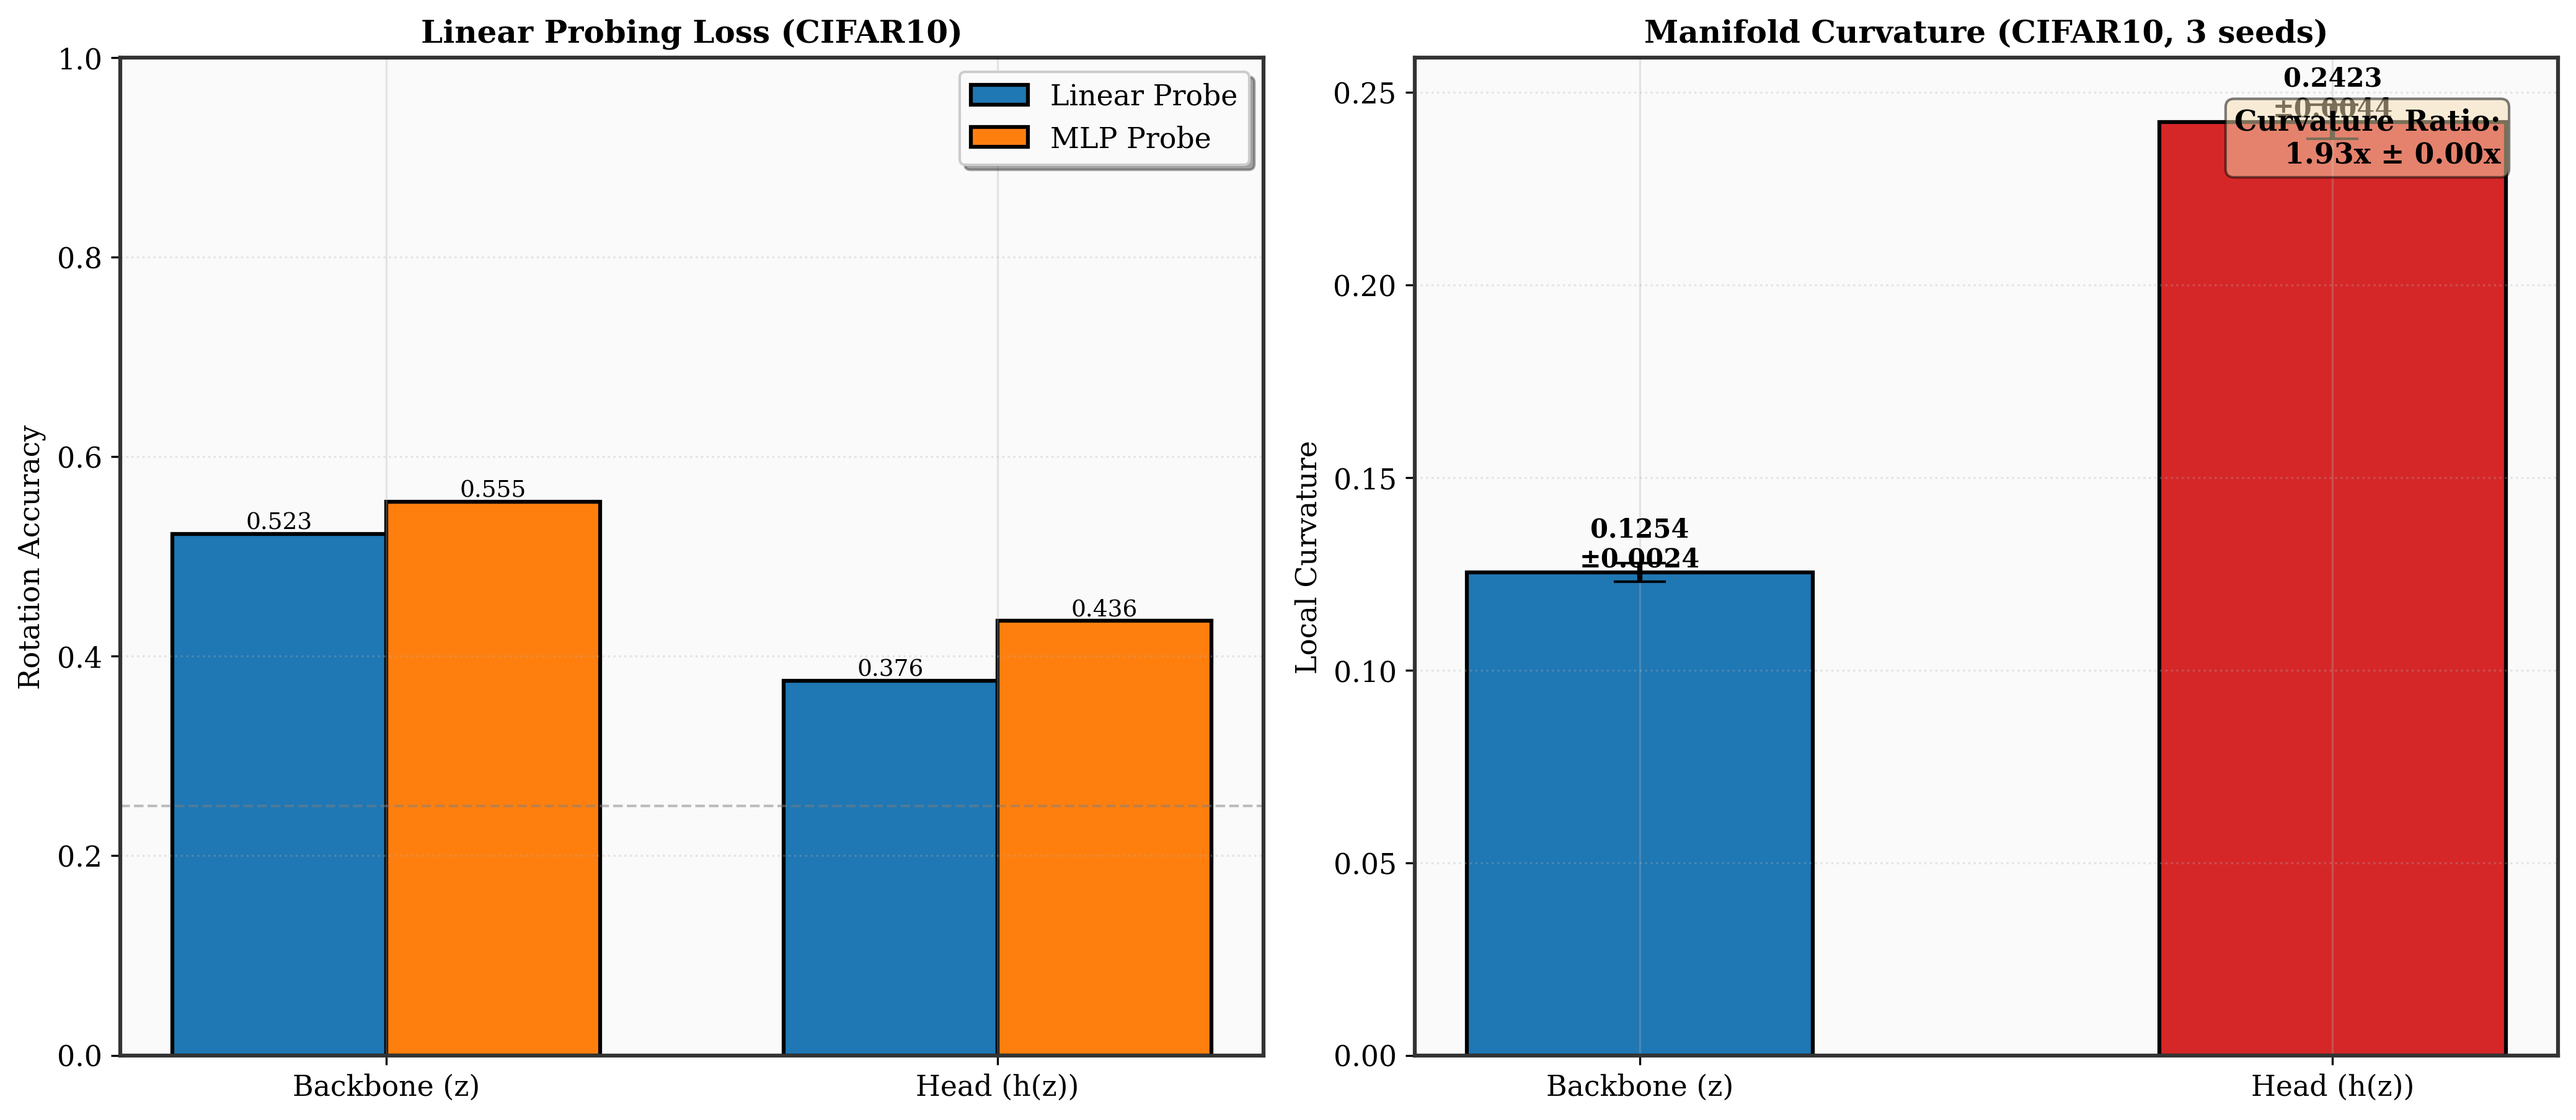
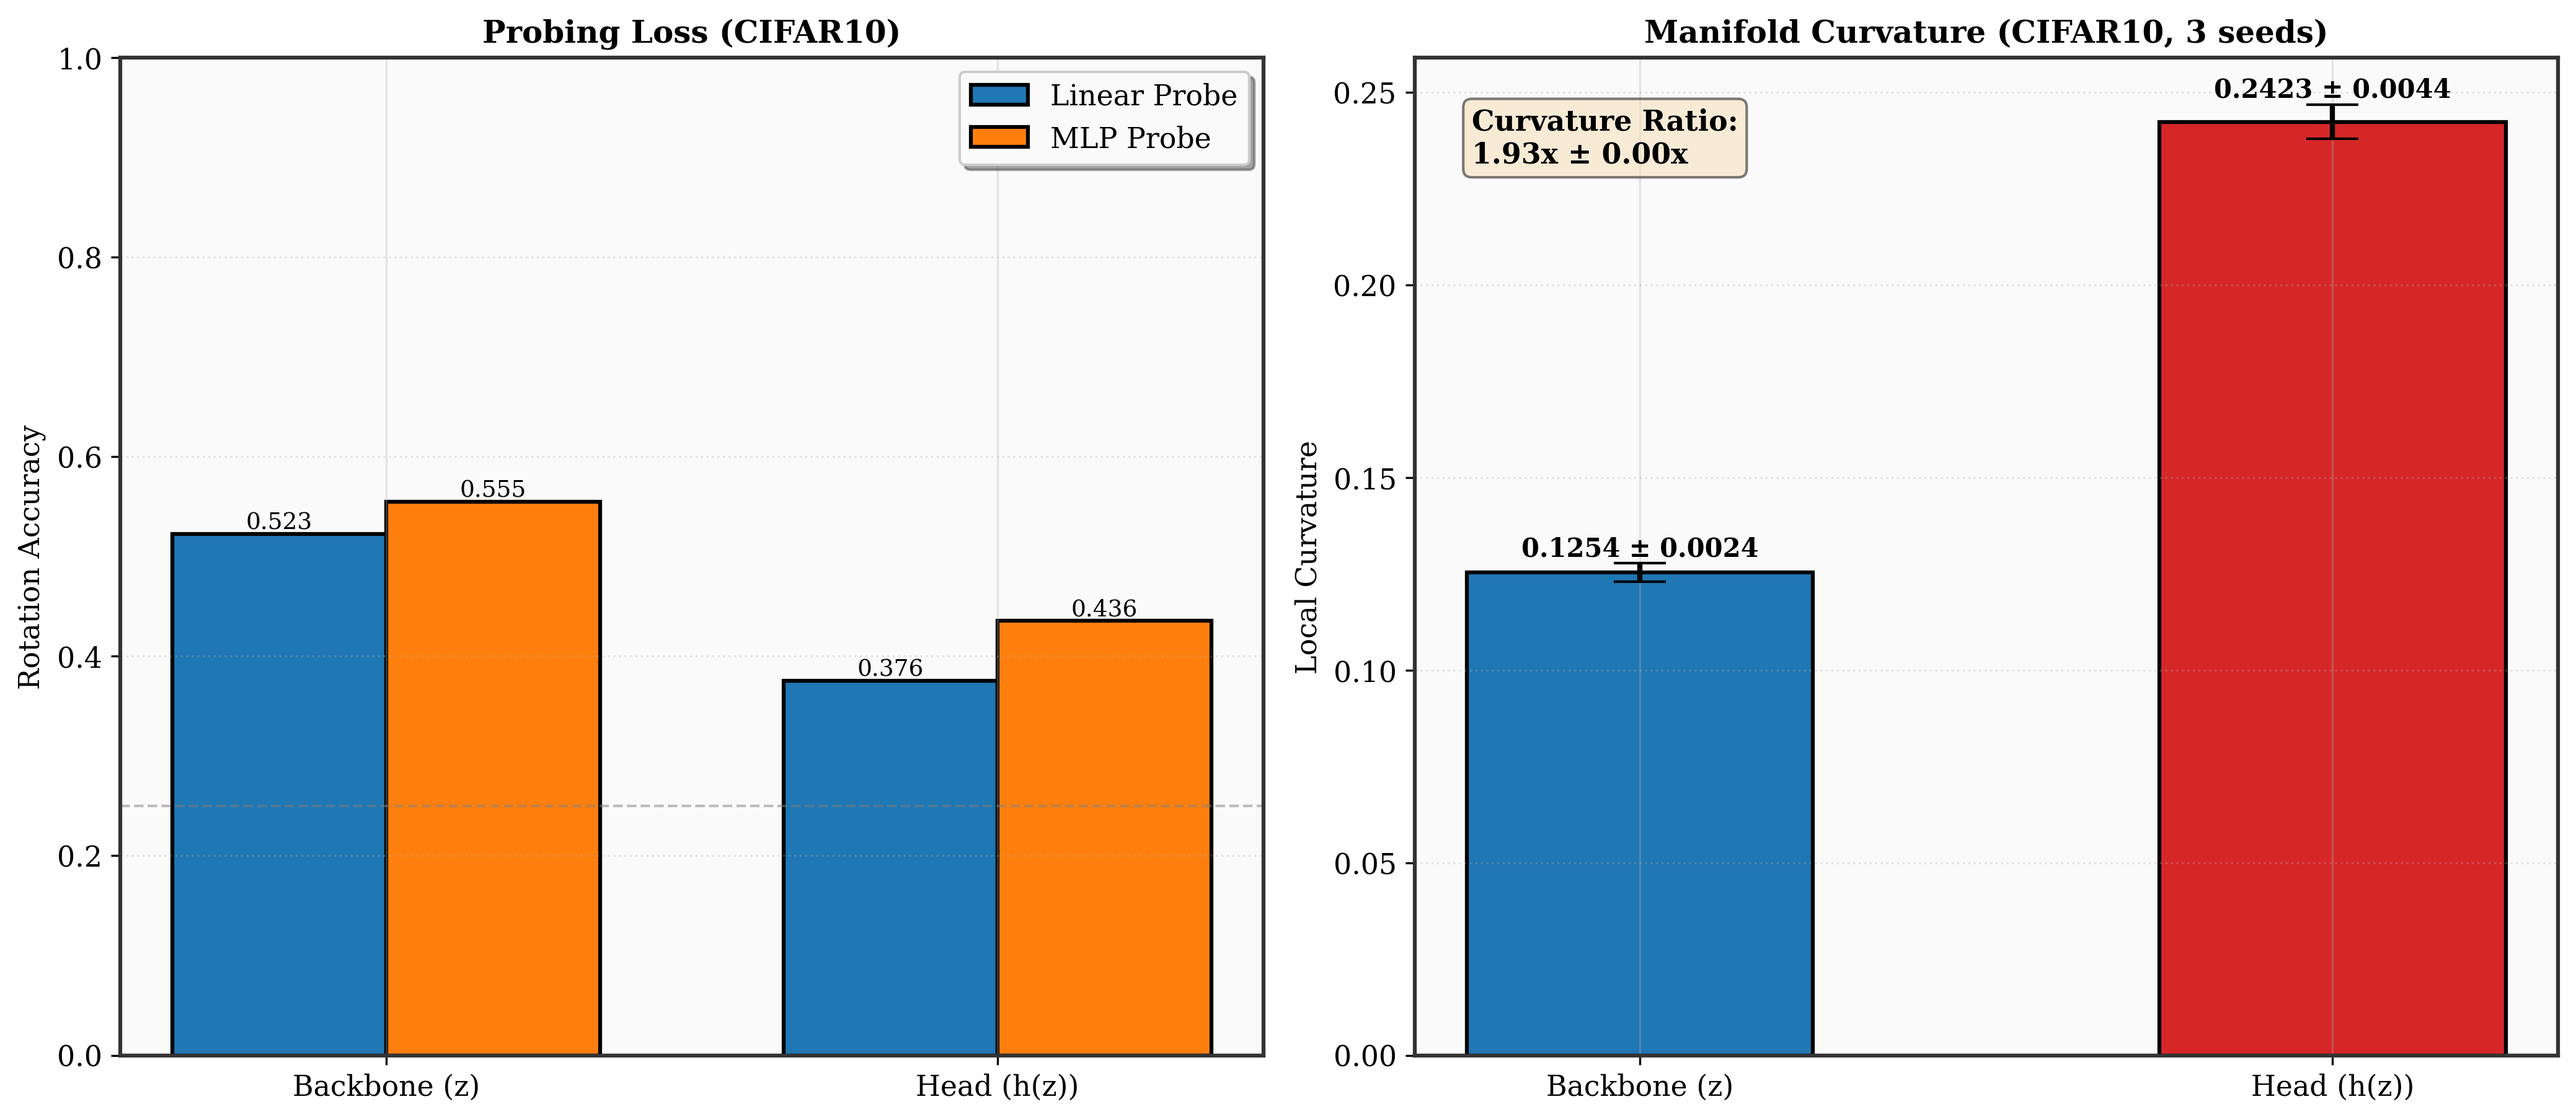
Seperate plotting script for granularity

diff --git a/experiments.py b/experiments.py
@@ -5,7 +5,6 @@ import torch.optim as optim
 import torchvision
 import torchvision.transforms as transforms
 from torch.utils.data import DataLoader, Dataset
-import matplotlib.pyplot as plt
 import numpy as np
 import random
 import argparse
@@ -35,27 +34,6 @@ logger = logging.getLogger(__name__)
 logger.info(f'Logging to {log_file}')
 
 device = torch.device('cuda' if torch.cuda.is_available() else 'cpu')
-
-# Plotting style
-plt.rcParams.update({
-        'text.usetex': False,
-        'font.family': 'serif',
-        'font.size': 12,
-        'axes.labelsize': 14,
-        'axes.titlesize': 16,
-        'xtick.labelsize': 11,
-        'ytick.labelsize': 11,
-        'legend.fontsize': 11,
-        'figure.figsize': (10, 6.18),
-        'axes.grid': True,
-        'grid.alpha': 0.3,
-        'lines.linewidth': 2.5,
-        'axes.facecolor': '#FAFAFA',
-        'figure.facecolor': 'white',
-        'axes.edgecolor': '#333333',
-        'axes.linewidth': 1.5,
-        'grid.linewidth': 0.8,
-    })
 
 
 def set_seed(seed: int = 0):
@@ -294,7 +272,7 @@ def run_collapse_experiment(
     }
 
 # =================================
-# Experiment 2a: Guillotine Effect (Linear Probing)
+# Experiment 2a: Guillotine Effect
 # Experiment 2b: Manifold Curvature
 # =================================
 
@@ -594,7 +572,6 @@ if __name__ == '__main__':
     DS = config.dataset
     
     # Log configuration
-    logger.info('')
     logger.info('Configuration:')
     logger.info(f'  Dataset: {config.dataset}')
     logger.info(f'  Batch size: {config.batch_size}')
@@ -603,13 +580,11 @@ if __name__ == '__main__':
     logger.info(f'  Guillotine epochs: {config.num_epochs_guillotine}')
     logger.info(f'  Probe epochs: {config.exp2_probe_epochs}')
     logger.info(f'  Learning rates: collapse={config.lr_collapse}, guillotine={config.lr_guillotine}')
-    logger.info('')
     
     # Create results directory structure
     results_dir = f'results/{DS}'
     os.makedirs(results_dir, exist_ok=True)
     logger.info(f'Results directory: {results_dir}/')
-    logger.info('')
 
     # Track total runtime
     start_time = time.time()
@@ -633,38 +608,7 @@ if __name__ == '__main__':
     np.save(f'{results_dir}/collapse_results.npy', results_exp1)
     logger.info(f'Saved collapse data to {results_dir}/collapse_results.npy')
 
-    # Plotting Exp 1
-    plt.figure(figsize=(10, 6.18))
-    
-    colors = {'linear': '#1f77b4', 'relu': '#ff7f0e', 'gelu': '#2ca02c', 'swish': '#d62728'}
-    styles = {'linear': '--', 'relu': '-', 'gelu': ':', 'swish': '-.'}
-    
-    for activation in activations:
-        if activation in results_exp1:
-            epochs = range(len(results_exp1[activation]['mean']))
-            plt.plot(epochs, results_exp1[activation]['mean'], 
-                    label=f'{activation.upper()}', 
-                    linestyle=styles.get(activation, '-'),
-                    color=colors.get(activation),
-                    linewidth=2)
-            plt.fill_between(epochs, 
-                           results_exp1[activation]['mean'] - results_exp1[activation]['std'],
-                           results_exp1[activation]['mean'] + results_exp1[activation]['std'], 
-                           alpha=0.2,
-                           color=colors.get(activation))
-    
-    plt.title(f'Collapse Instability ({DS.upper()})', fontsize=12, fontweight='bold')
-    plt.xlabel('Training Epochs', fontsize=11)
-    plt.ylabel('Representation Std. Dev.', fontsize=11)
-    plt.legend(frameon=True, shadow=True)
-    plt.grid(alpha=0.3, linestyle=':')
-    
-    plt.tight_layout()
-    plt.savefig(f'{results_dir}/fig1_collapse_instability.png', dpi=300, bbox_inches='tight')
-    logger.info(f'Saved plot to {results_dir}/fig1_collapse_instability.png')
-
     # Experiment 2a: Guillotine Effect
-    logger.info('')
     logger.info('='*60)
     logger.info(f'EXPERIMENT 2a: Guillotine Effect ({DS.upper()})')
     logger.info('='*60)
@@ -705,7 +649,6 @@ if __name__ == '__main__':
     # Experiment 2b: Manifold Curvature
     # Creates combined figure with probing (left) and curvature (right)
     if backbone_pretrained is not None and head_pretrained is not None:
-        logger.info('')
         logger.info('='*60)
         logger.info(f'EXPERIMENT 2b: Manifold Curvature ({DS.upper()})')
         logger.info('='*60)
@@ -766,71 +709,6 @@ if __name__ == '__main__':
                 'dataset': DS
             })
             logger.info(f'Saved curvature data to {results_dir}/curvature_results.npy')
-            
-            # Create combined figure: Probing (left) + Curvature (right)
-            plt.figure(figsize=(14, 6.18))
-            
-            # Left subplot: Probing results (from Exp 2)
-            plt.subplot(1, 2, 1)
-            x_bar = np.arange(2)
-            width = 0.35
-            
-            bars1 = plt.bar(x_bar - width/2, [acc_z_linear, acc_h_linear], width,
-                           label='Linear Probe', color='#1f77b4', edgecolor='black', linewidth=1.5)
-            bars2 = plt.bar(x_bar + width/2, [acc_z_mlp, acc_h_mlp], width,
-                           label='MLP Probe', color='#ff7f0e', edgecolor='black', linewidth=1.5)
-            
-            plt.ylabel('Rotation Accuracy', fontsize=11)
-            plt.title(f'Linear Probing Loss ({DS.upper()})', fontsize=12, fontweight='bold')
-            plt.xticks(x_bar, ['Backbone (z)', 'Head (h(z))'])
-            plt.ylim(0, 1.0)
-            plt.axhline(0.25, color='gray', linestyle='--', alpha=0.5, linewidth=1)
-            plt.legend(frameon=True, shadow=True)
-            plt.grid(alpha=0.3, axis='y', linestyle=':')
-            
-            for bars in [bars1, bars2]:
-                for bar in bars:
-                    height = bar.get_height()
-                    plt.text(bar.get_x() + bar.get_width()/2., height,
-                            f'{height:.3f}', ha='center', va='bottom', fontsize=9)
-            
-            # Right subplot: Curvature results  
-            plt.subplot(1, 2, 2)
-            x = np.arange(2)
-            width = 0.5
-            
-            bars = plt.bar(x, [mean_curv_z_overall, mean_curv_h_overall], width,
-                          yerr=[std_curv_z_overall, std_curv_h_overall],
-                          color=['#1f77b4', '#d62728'],
-                          edgecolor='black',
-                          linewidth=1.5,
-                          capsize=10,
-                          error_kw={'linewidth': 2, 'ecolor': 'black'})
-            
-            plt.ylabel('Local Curvature', fontsize=11)
-            plt.title(f'Manifold Curvature ({DS.upper()}, {config.num_seeds} seeds)',
-                     fontsize=12, fontweight='bold')
-            plt.xticks(x, ['Backbone (z)', 'Head (h(z))'])
-            plt.grid(alpha=0.3, axis='y', linestyle=':')
-            
-            # Add value labels on bars with proper newlines
-            for i, bar in enumerate(bars):
-                height = bar.get_height()
-                std_val = [std_curv_z_overall, std_curv_h_overall][i]
-                plt.text(bar.get_x() + bar.get_width()/2., height,
-                        f'{height:.4f}' + '\n' + f'±{std_val:.4f}',
-                        ha='center', va='bottom', fontsize=10, fontweight='bold')
-            
-            # Add text box with curvature ratio
-            textstr = f'Curvature Ratio:' + '\n' + f'{mean_ratio:.2f}x ± {std_ratio:.2f}x'
-            props = dict(boxstyle='round', facecolor='wheat', alpha=0.5)
-            plt.text(0.95, 0.95, textstr, transform=plt.gca().transAxes, fontsize=11,
-                    verticalalignment='top', horizontalalignment='right', bbox=props,
-                    fontweight='bold')
-            
-            plt.tight_layout()
-            plt.savefig(f'{results_dir}/fig2_geometric_mechanisms.png', dpi=300, bbox_inches='tight')
-            logger.info(f'Saved combined plot to {results_dir}/fig2_geometric_mechanisms.png')
         except Exception as e:
             logger.info(f'Error in Curvature experiment: {e}')
     else:
@@ -838,11 +716,12 @@ if __name__ == '__main__':
     
     # Final summary
     total_time = time.time() - start_time
-    logger.info('')
     logger.info('='*60)
     logger.info('EXPERIMENTS COMPLETED')
     logger.info('='*60)
     logger.info(f'Total runtime: {total_time/60:.2f} minutes ({total_time:.1f} seconds)')
     logger.info(f'Results saved to: {results_dir}/')
     logger.info(f'Log file: {log_file}')
+    logger.info('To generate figures, run:')
+    logger.info(f'  python plot_results.py --dataset {DS}')
     logger.info('='*60)

diff --git a/plot_results.py b/plot_results.py
@@ -1,0 +1,182 @@
+"""
+Plot results from saved experiment data.
+"""
+import numpy as np
+import matplotlib.pyplot as plt
+import argparse
+import os
+
+# Plotting style
+plt.rcParams.update({
+    'text.usetex': False,
+    'font.family': 'serif',
+    'font.size': 12,
+    'axes.labelsize': 14,
+    'axes.titlesize': 16,
+    'xtick.labelsize': 11,
+    'ytick.labelsize': 11,
+    'legend.fontsize': 11,
+    'figure.figsize': (10, 6.18),
+    'axes.grid': True,
+    'grid.alpha': 0.3,
+    'lines.linewidth': 2.5,
+    'axes.facecolor': '#FAFAFA',
+    'figure.facecolor': 'white',
+    'axes.edgecolor': '#333333',
+    'axes.linewidth': 1.5,
+    'grid.linewidth': 0.8,
+})
+
+
+def plot_collapse_instability(results_dir, dataset):
+    """Plot Experiment 1: Collapse Instability."""
+    # Load results
+    results = np.load(f'{results_dir}/collapse_results.npy', allow_pickle=True).item()
+    
+    plt.figure(figsize=(10, 6.18))
+    
+    colors = {'linear': '#1f77b4', 'relu': '#ff7f0e', 'gelu': '#2ca02c', 'swish': '#d62728'}
+    styles = {'linear': '--', 'relu': '-', 'gelu': ':', 'swish': '-.'}
+    activations = ['linear', 'relu', 'gelu', 'swish']
+    
+    for activation in activations:
+        if activation in results:
+            epochs = range(len(results[activation]['mean']))
+            plt.plot(epochs, results[activation]['mean'], 
+                    label=f'{activation.upper()}', 
+                    linestyle=styles.get(activation, '-'),
+                    color=colors.get(activation),
+                    linewidth=2)
+            plt.fill_between(epochs, 
+                           results[activation]['mean'] - results[activation]['std'],
+                           results[activation]['mean'] + results[activation]['std'], 
+                           alpha=0.2,
+                           color=colors.get(activation))
+    
+    plt.title(f'Collapse Instability ({dataset.upper()})', fontsize=12, fontweight='bold')
+    plt.xlabel('Training Epochs', fontsize=11)
+    plt.ylabel('Representation Std. Dev.', fontsize=11)
+    
+    # Force integer x-axis ticks
+    ax = plt.gca()
+    ax.xaxis.set_major_locator(plt.MaxNLocator(integer=True))
+    
+    plt.legend(frameon=True, shadow=True)
+    plt.grid(alpha=0.3, linestyle=':')
+    
+    plt.tight_layout()
+    plt.savefig(f'{results_dir}/fig1_collapse_instability.png', dpi=300, bbox_inches='tight')
+    print(f'Saved: {results_dir}/fig1_collapse_instability.png')
+
+
+def plot_geometric_mechanisms(results_dir, dataset):
+    """Plot Experiment 2: Combined Guillotine + Curvature."""
+    # Load results
+    guillotine = np.load(f'{results_dir}/guillotine_results.npy', allow_pickle=True).item()
+    curvature = np.load(f'{results_dir}/curvature_results.npy', allow_pickle=True).item()
+    
+    # Extract values
+    acc_z_linear = guillotine['backbone_acc_linear']
+    acc_h_linear = guillotine['head_acc_linear']
+    acc_z_mlp = guillotine['backbone_acc_mlp']
+    acc_h_mlp = guillotine['head_acc_mlp']
+    
+    mean_curv_z = curvature['mean_curv_z']
+    std_curv_z = curvature['std_curv_z']
+    mean_curv_h = curvature['mean_curv_h']
+    std_curv_h = curvature['std_curv_h']
+    mean_ratio = curvature['mean_ratio']
+    std_ratio = curvature['std_ratio']
+    num_seeds = curvature['num_seeds']
+    
+    # Create combined figure
+    plt.figure(figsize=(14, 6.18))
+    
+    # Left subplot: Probing results
+    plt.subplot(1, 2, 1)
+    x_bar = np.arange(2)
+    width = 0.35
+    
+    bars1 = plt.bar(x_bar - width/2, [acc_z_linear, acc_h_linear], width,
+                   label='Linear Probe', color='#1f77b4', edgecolor='black', linewidth=1.5)
+    bars2 = plt.bar(x_bar + width/2, [acc_z_mlp, acc_h_mlp], width,
+                   label='MLP Probe', color='#ff7f0e', edgecolor='black', linewidth=1.5)
+    
+    plt.ylabel('Rotation Accuracy', fontsize=11)
+    plt.title(f'Probing Loss ({dataset.upper()})', fontsize=12, fontweight='bold')
+    plt.xticks(x_bar, ['Backbone (z)', 'Head (h(z))'])
+    plt.ylim(0, 1.0)
+    plt.axhline(0.25, color='gray', linestyle='--', alpha=0.5, linewidth=1)
+    plt.legend(frameon=True, shadow=True)
+    plt.grid(alpha=0.3, axis='y', linestyle=':')
+    
+    for bars in [bars1, bars2]:
+        for bar in bars:
+            height = bar.get_height()
+            plt.text(bar.get_x() + bar.get_width()/2., height,
+                    f'{height:.3f}', ha='center', va='bottom', fontsize=9)
+    
+    # Right subplot: Curvature results
+    plt.subplot(1, 2, 2)
+    x = np.arange(2)
+    width = 0.5
+    
+    bars = plt.bar(x, [mean_curv_z, mean_curv_h], width,
+                  yerr=[std_curv_z, std_curv_h],
+                  color=['#1f77b4', '#d62728'],
+                  edgecolor='black',
+                  linewidth=1.5,
+                  capsize=10,
+                  error_kw={'linewidth': 2, 'ecolor': 'black'})
+    
+    plt.ylabel('Local Curvature', fontsize=11)
+    plt.title(f'Manifold Curvature ({dataset.upper()}, {num_seeds} seeds)',
+             fontsize=12, fontweight='bold')
+    plt.xticks(x, ['Backbone (z)', 'Head (h(z))'])
+    plt.grid(alpha=0.3, axis='y', linestyle=':')
+    
+    for i, bar in enumerate(bars):
+        height = bar.get_height()
+        std_val = [std_curv_z, std_curv_h][i]
+        y_pos = height + std_val * 1.15
+        plt.text(bar.get_x() + bar.get_width()/2., y_pos,
+                f'{height:.4f} ± {std_val:.4f}',
+                ha='center', va='bottom', fontsize=10, fontweight='bold')
+    
+    textstr = f'Curvature Ratio:\n{mean_ratio:.2f}x ± {std_ratio:.2f}x'
+    props = dict(boxstyle='round', facecolor='wheat', alpha=0.5)
+    plt.text(0.05, 0.95, textstr, transform=plt.gca().transAxes, fontsize=11,
+            verticalalignment='top', horizontalalignment='left', bbox=props,
+            fontweight='bold')
+    
+    plt.tight_layout()
+    plt.savefig(f'{results_dir}/fig2_geometric_mechanisms.png', dpi=300, bbox_inches='tight')
+    print(f'Saved: {results_dir}/fig2_geometric_mechanisms.png')
+
+
+if __name__ == '__main__':
+    parser = argparse.ArgumentParser(description='Plot results from saved experiment data')
+    parser.add_argument('--dataset', type=str, default='cifar10', choices=['cifar10', 'cifar100'],
+                       help='Dataset to plot results for')
+    args = parser.parse_args()
+    
+    results_dir = f'results/{args.dataset}'
+    
+    if not os.path.exists(results_dir):
+        print(f'Error: Results directory not found: {results_dir}')
+        print('Run experiments.py first to generate results.')
+        exit(1)
+    
+    print(f'Plotting results for {args.dataset.upper()}...')
+    print()
+    
+    # Plot Figure 1
+    print('Creating Figure 1: Collapse Instability')
+    plot_collapse_instability(results_dir, args.dataset)
+    
+    # Plot Figure 2
+    print('Creating Figure 2: Geometric Mechanisms')
+    plot_geometric_mechanisms(results_dir, args.dataset)
+    
+    print()
+    print('Done! Figures saved to:', results_dir)
